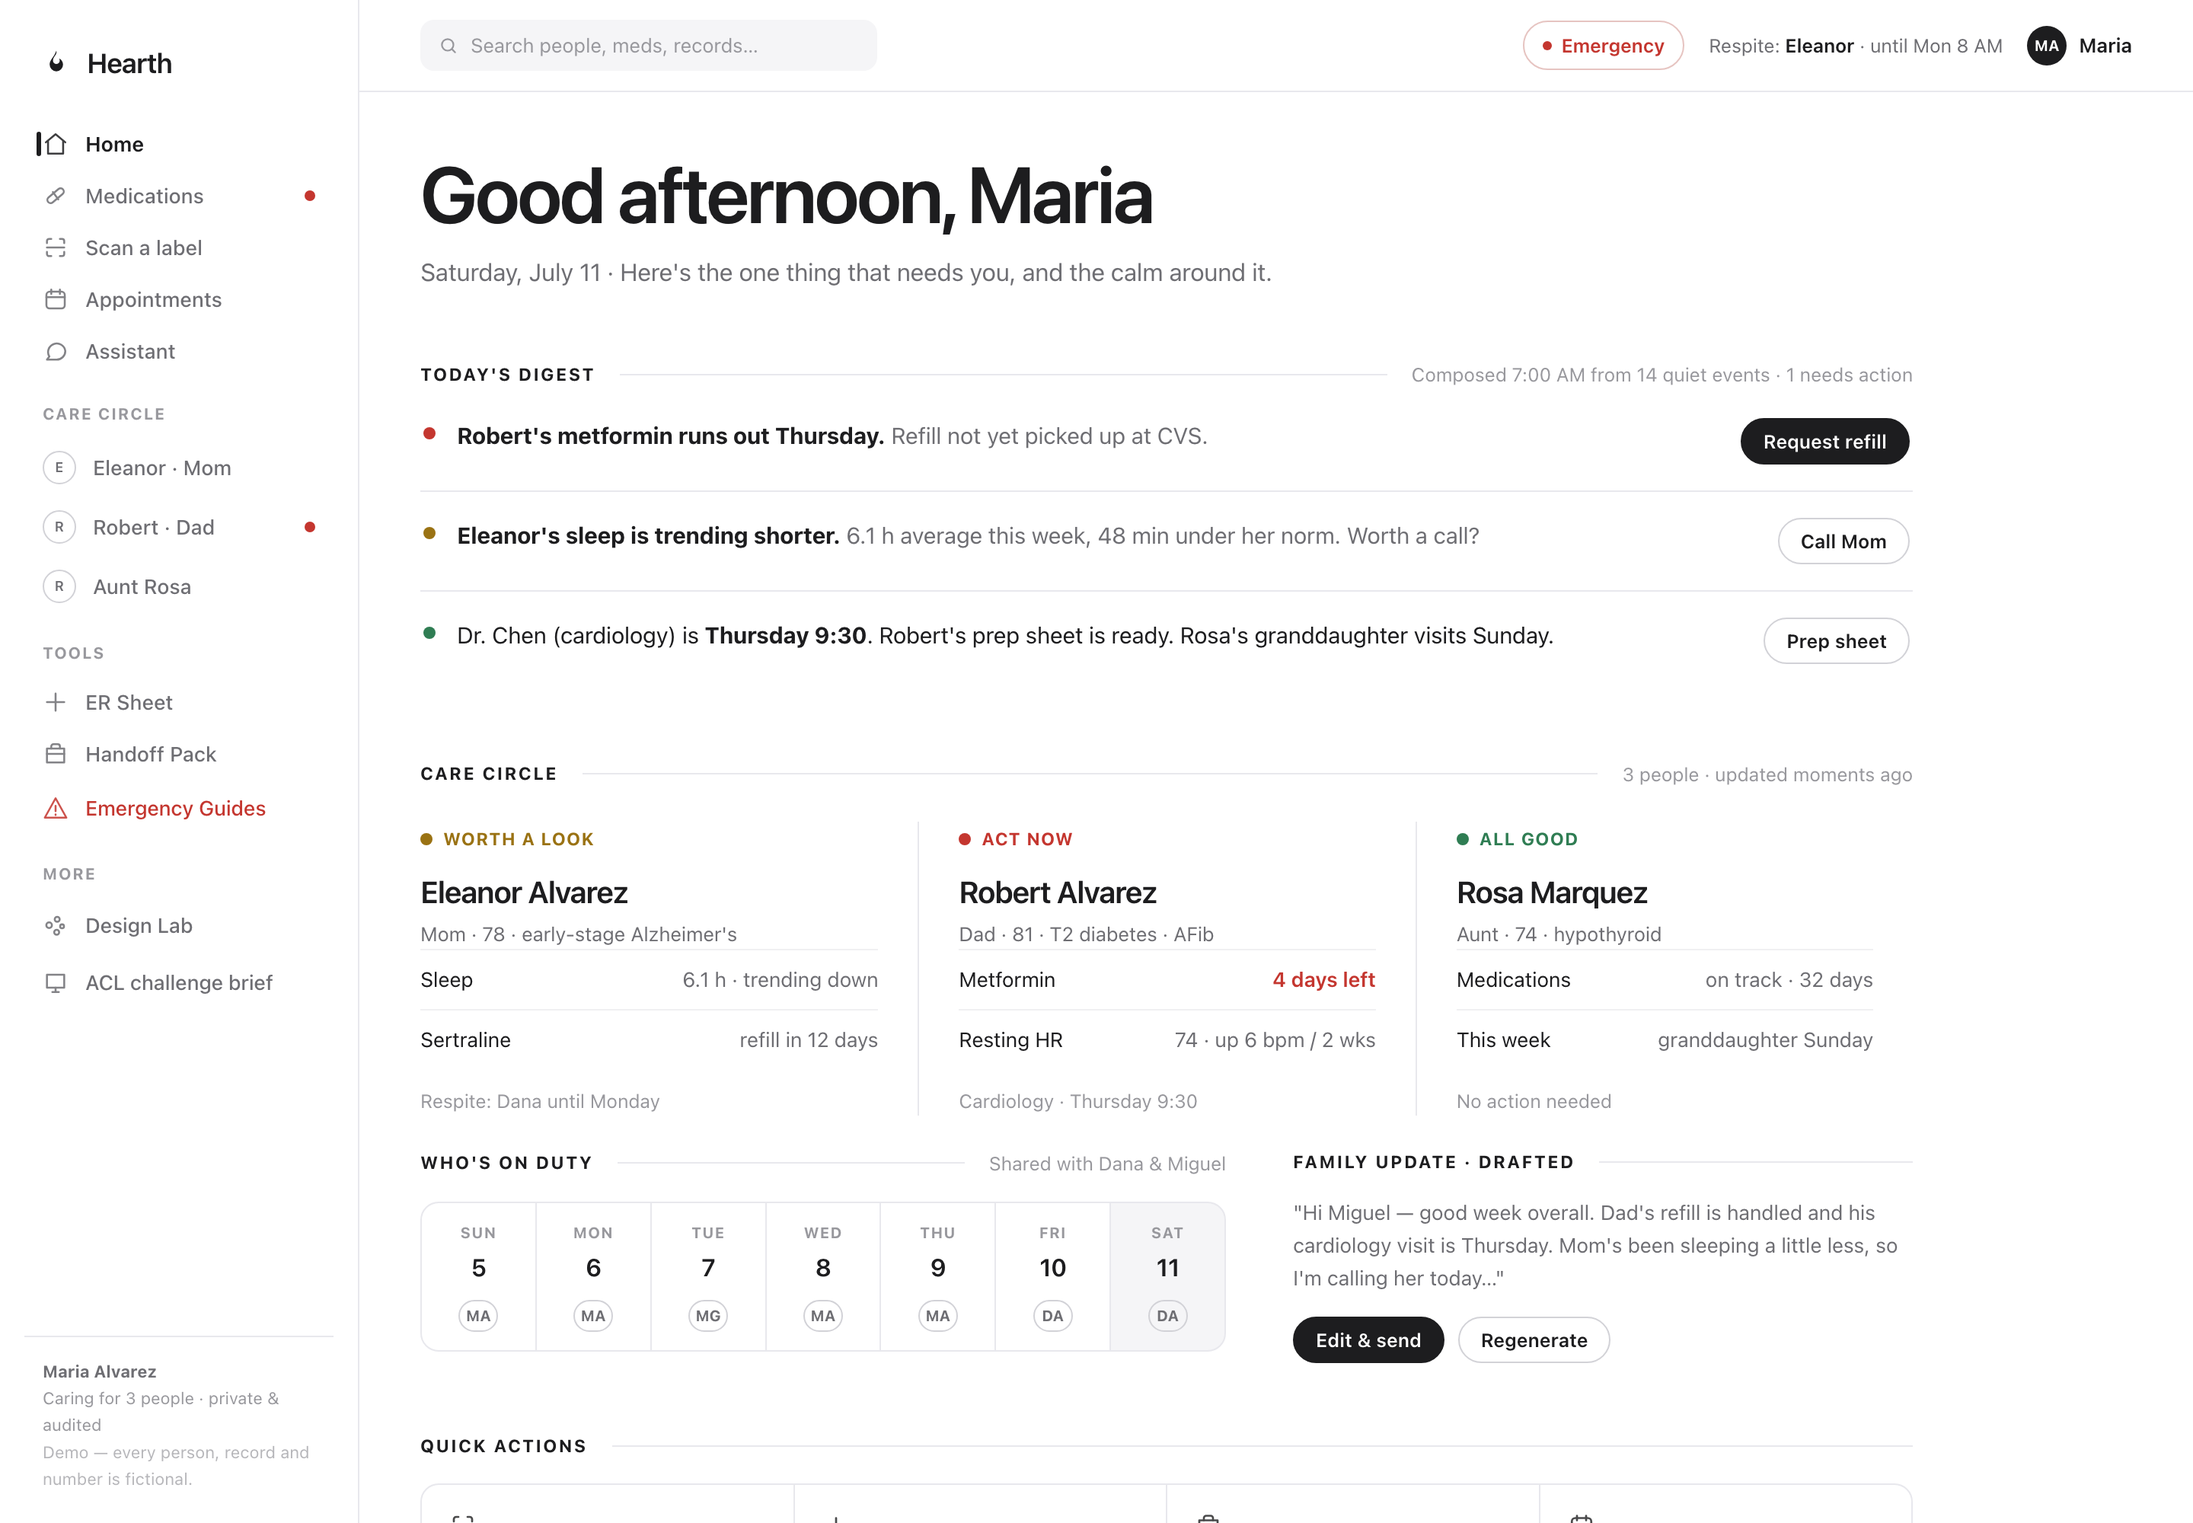
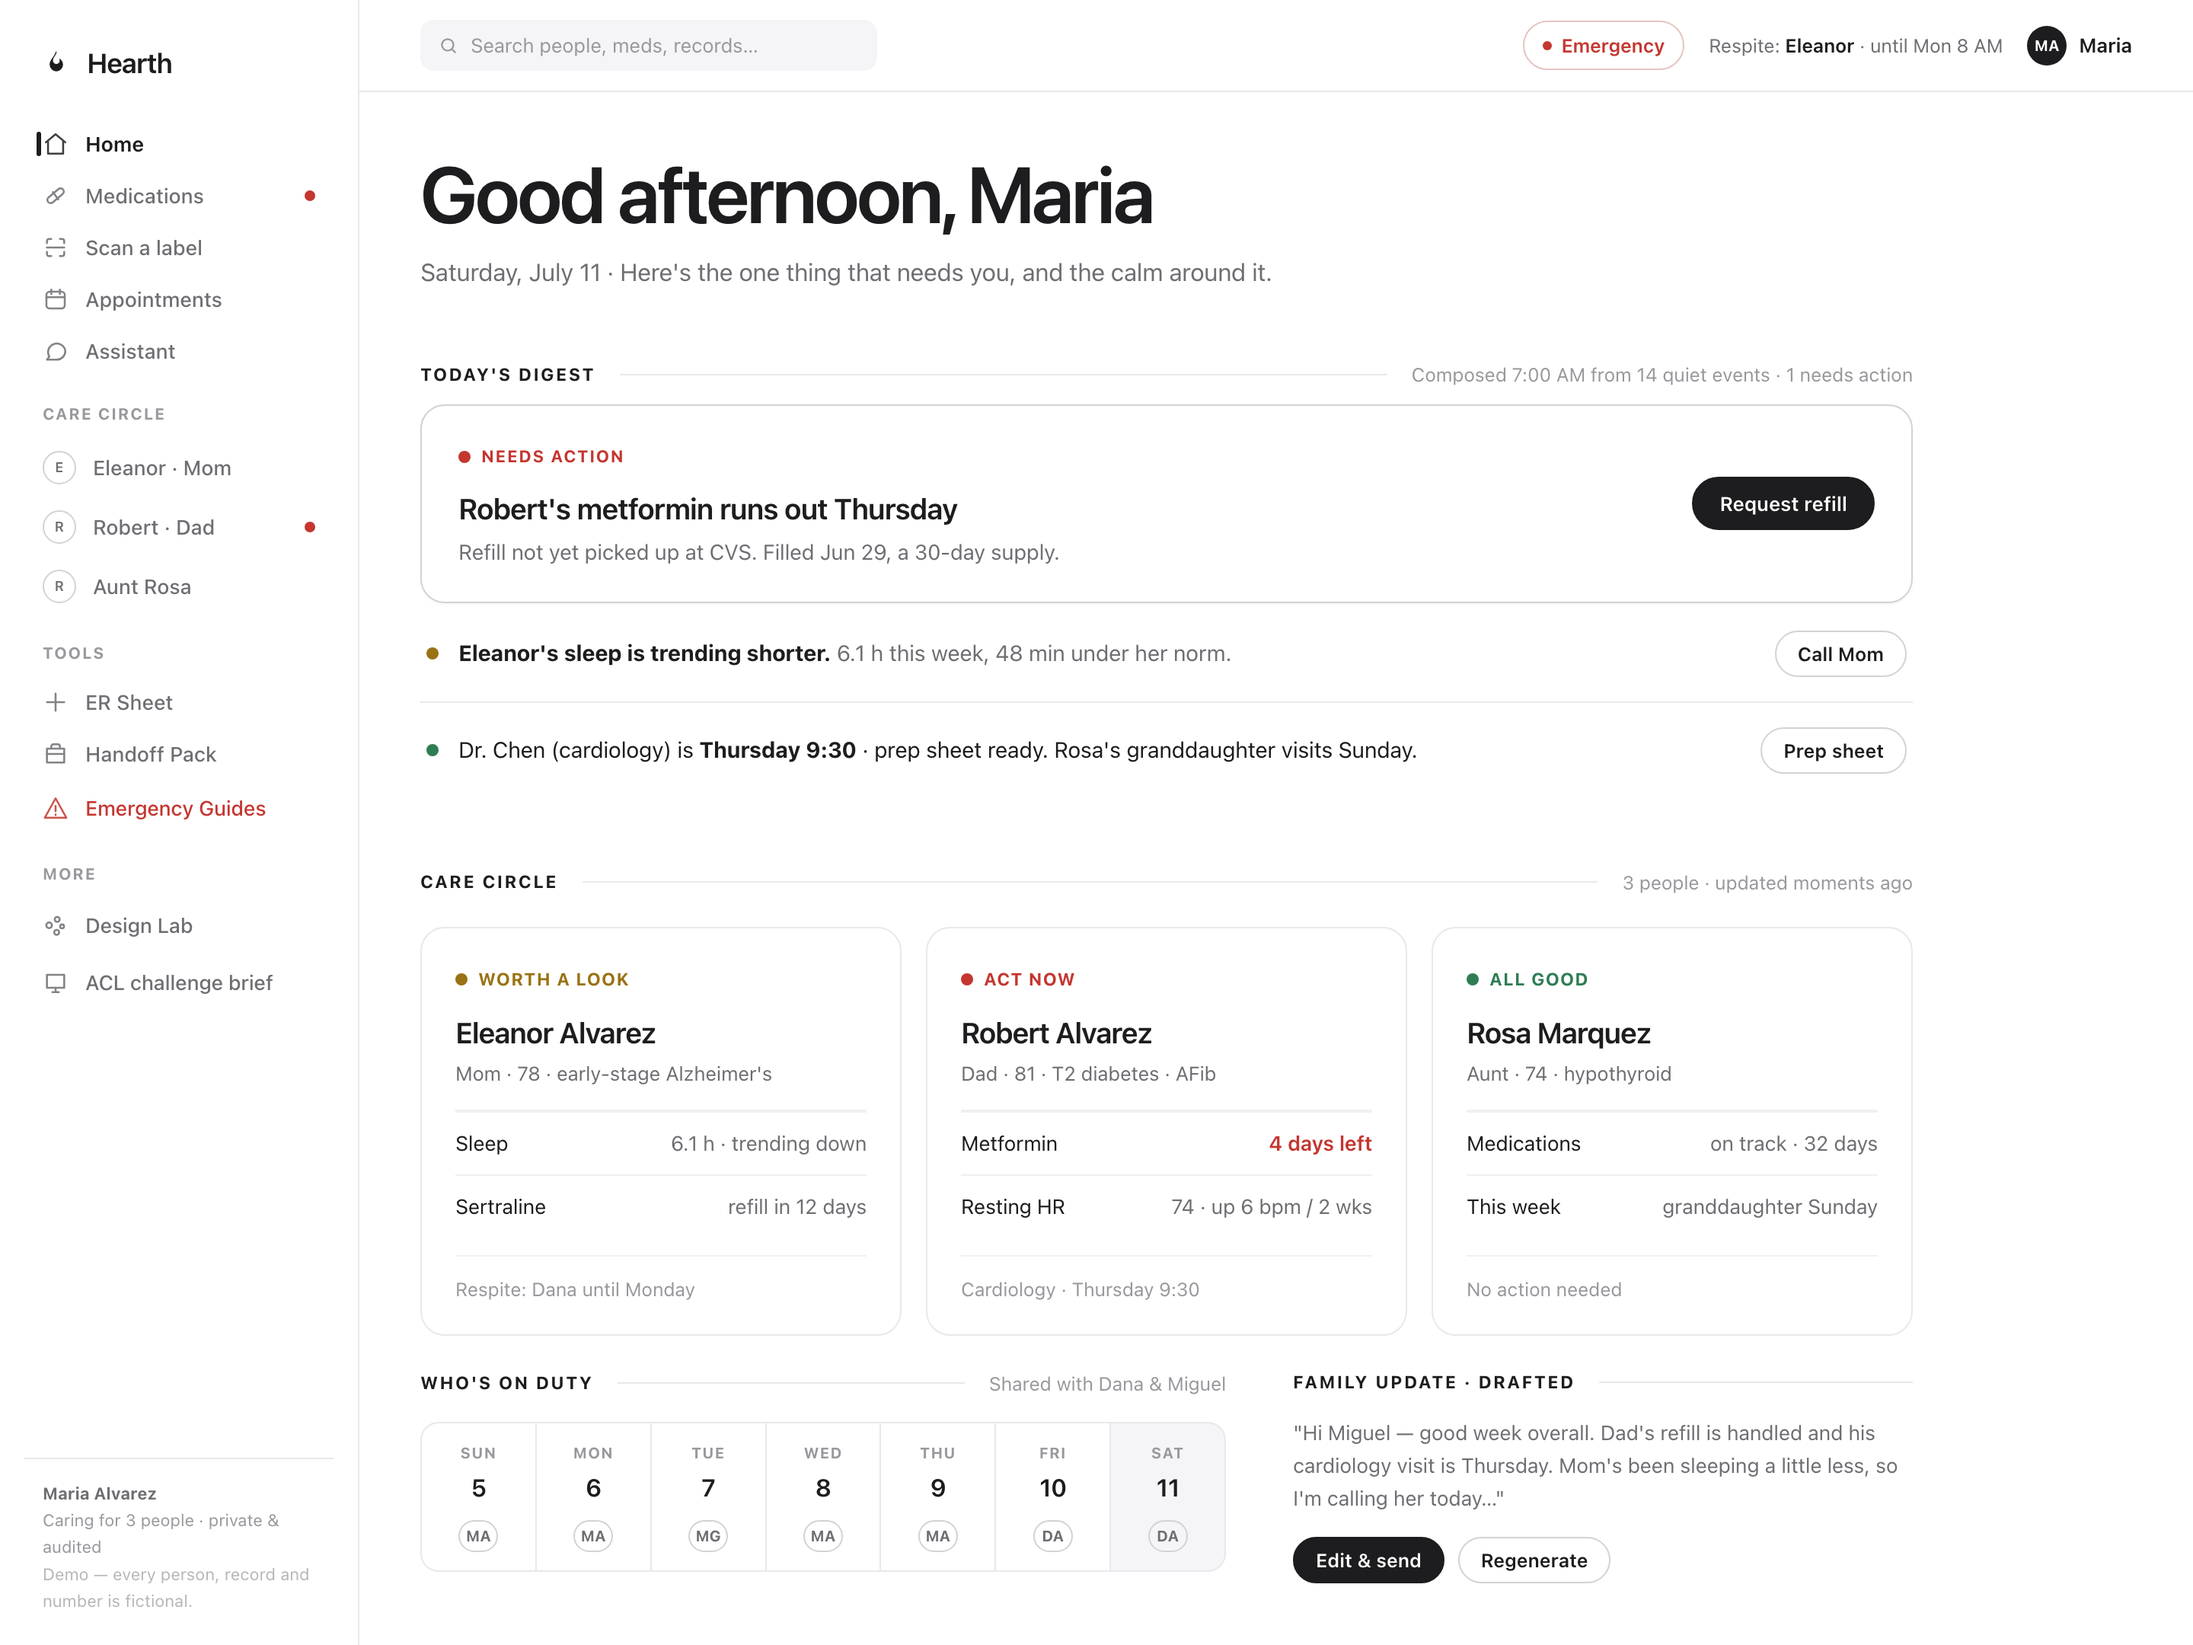
Dashboard polish: digest as prominent action card + quiet rows; Care Circle as cards

diff --git a/index.html b/index.html
@@ -76,23 +76,32 @@ h1.greet{font-size:clamp(38px,5vw,52px);font-weight:600;letter-spacing:-.032em;l
 .chip{display:inline-block;font-size:12px;color:var(--ink2);border:1px solid var(--line-strong);border-radius:99px;padding:3px 10px}
 .muted{color:var(--ink2)} .mini{font-size:12px;color:var(--ink3)} .mono{font-family:var(--mono)}
 
-.digest .ditem{display:flex;align-items:flex-start;gap:14px;padding:17px 2px;border-bottom:1px solid var(--line)}
-.digest .ditem:last-child{border-bottom:none}
-.digest .ditem .dot{margin-top:6px}
-.digest .ditem .tx{flex:1;font-size:15px}
-.digest .ditem .btn{margin-left:auto}
+/* digest: one prominent action + quiet rows */
+.digest{margin-top:10px}
+.dprimary{display:flex;align-items:center;gap:22px;border:1px solid var(--line-strong);border-radius:16px;padding:22px 24px;box-shadow:0 1px 2px rgba(40,30,10,.04)}
+.dprimary .dl{flex:1}
+.dbadge{display:inline-flex;align-items:center;gap:7px;font-size:11px;font-weight:700;letter-spacing:.07em;text-transform:uppercase;color:var(--red)}
+.dp-title{font-size:19px;font-weight:600;letter-spacing:-.015em;margin:10px 0 4px}
+.dp-desc{font-size:14px;color:var(--ink2)}
+.dprimary .btn{flex:0 0 auto}
+.dquiet{margin-top:2px}
+.qi{display:flex;align-items:center;gap:13px;padding:16px 4px;border-bottom:1px solid var(--line)}
+.qi:last-child{border-bottom:none}
+.qi .dot{flex:0 0 auto}
+.qi .qt{flex:1;font-size:14.5px}
+.qi .btn{flex:0 0 auto;margin-left:auto}
 
-.circle{display:grid;grid-template-columns:repeat(3,1fr);margin-top:22px}
-.person{padding:0 26px;border-left:1px solid var(--line);cursor:pointer}
-.person:first-child{padding-left:0;border-left:none}
-.person:hover .pname{text-decoration:underline}
-.person .pname{font-size:20px;font-weight:600;letter-spacing:-.02em;margin:10px 0 3px}
-.person .pmeta{font-size:13px;color:var(--ink2)}
-.person .pstat{display:flex;justify-content:space-between;gap:10px;font-size:13.5px;padding:9px 0;border-top:1px solid var(--line2)}
-.person .pstat:nth-of-type(1){margin-top:14px}
+/* care circle: cards */
+.circle{display:grid;grid-template-columns:repeat(3,1fr);gap:16px;margin-top:20px}
+.person{padding:22px 22px 20px;border:1px solid var(--line);border-radius:16px;background:#fff;cursor:pointer;transition:transform .18s,box-shadow .18s,border-color .18s}
+.person:hover{transform:translateY(-2px);box-shadow:0 2px 10px rgba(40,30,10,.05),0 16px 38px rgba(40,30,10,.07);border-color:var(--line-strong)}
+.person .pname{font-size:19px;font-weight:600;letter-spacing:-.02em;margin:11px 0 3px}
+.person .pmeta{font-size:13px;color:var(--ink2);padding-bottom:14px;border-bottom:1px solid var(--line2)}
+.person .pstat{display:flex;justify-content:space-between;gap:10px;font-size:13.5px;padding:10px 0;border-top:1px solid var(--line2)}
+.person .pstat:first-of-type{border-top:none;padding-top:12px}
 .person .pstat .v{color:var(--ink2)}
 .person .pstat .v.red{color:var(--red);font-weight:600}
-.person .pfoot{margin-top:12px;font-size:12.5px;color:var(--ink3)}
+.person .pfoot{margin-top:12px;padding-top:12px;border-top:1px solid var(--line2);font-size:12.5px;color:var(--ink3)}
 
 .cols{display:grid;gap:44px;margin-top:22px}
 .cols.c2{grid-template-columns:1.3fr 1fr}
@@ -282,9 +291,18 @@ table.tbl tr:last-child td{border-bottom:none}
 
     <div class="seclabel"><span class="l">Today's digest</span><span class="line"></span><span class="m">Composed 7:00 AM from 14 quiet events · 1 needs action</span></div>
     <div class="digest">
-      <div class="ditem"><span class="dot red"></span><div class="tx"><b>Robert's metformin runs out Thursday.</b> <span class="muted">Refill not yet picked up at CVS.</span></div><button class="btn dark sm">Request refill</button></div>
-      <div class="ditem"><span class="dot amber"></span><div class="tx"><b>Eleanor's sleep is trending shorter.</b> <span class="muted">6.1 h average this week, 48 min under her norm. Worth a call?</span></div><button class="btn sm">Call Mom</button></div>
-      <div class="ditem"><span class="dot green"></span><div class="tx">Dr. Chen (cardiology) is <b>Thursday 9:30</b>. Robert's prep sheet is ready. Rosa's granddaughter visits Sunday.</div><button class="btn sm">Prep sheet</button></div>
+      <div class="dprimary">
+        <div class="dl">
+          <span class="dbadge"><span class="dot red"></span>Needs action</span>
+          <div class="dp-title">Robert's metformin runs out Thursday</div>
+          <div class="dp-desc">Refill not yet picked up at CVS. Filled Jun 29, a 30-day supply.</div>
+        </div>
+        <button class="btn dark">Request refill</button>
+      </div>
+      <div class="dquiet">
+        <div class="qi"><span class="dot amber"></span><div class="qt"><b>Eleanor's sleep is trending shorter.</b> <span class="muted">6.1 h this week, 48 min under her norm.</span></div><button class="btn sm">Call Mom</button></div>
+        <div class="qi"><span class="dot green"></span><div class="qt">Dr. Chen (cardiology) is <b>Thursday 9:30</b> · prep sheet ready. Rosa's granddaughter visits Sunday.</div><button class="btn sm">Prep sheet</button></div>
+      </div>
     </div>
 
     <div class="seclabel"><span class="l">Care circle</span><span class="line"></span><span class="m">3 people · updated moments ago</span></div>
